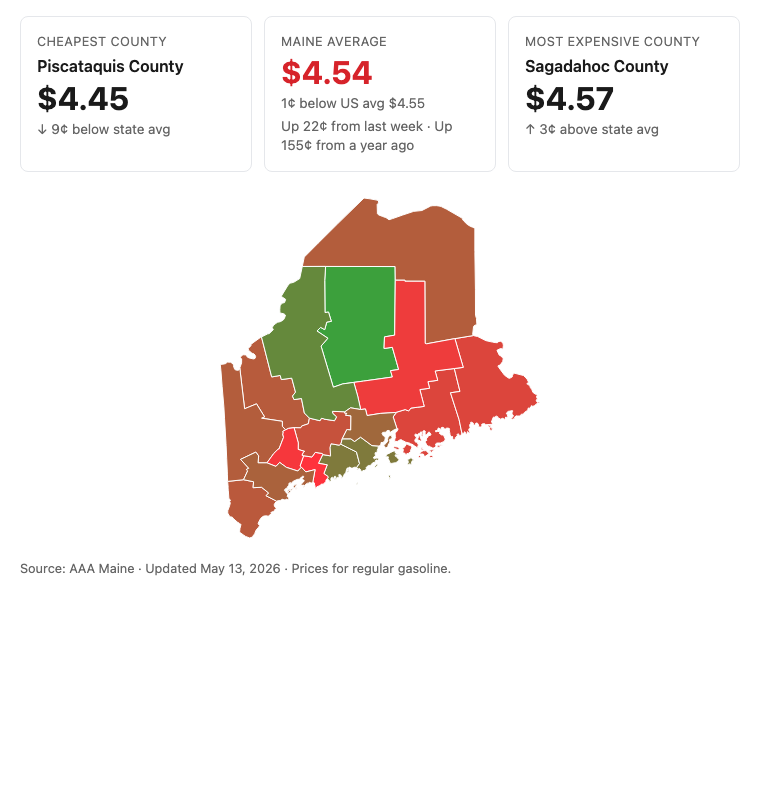
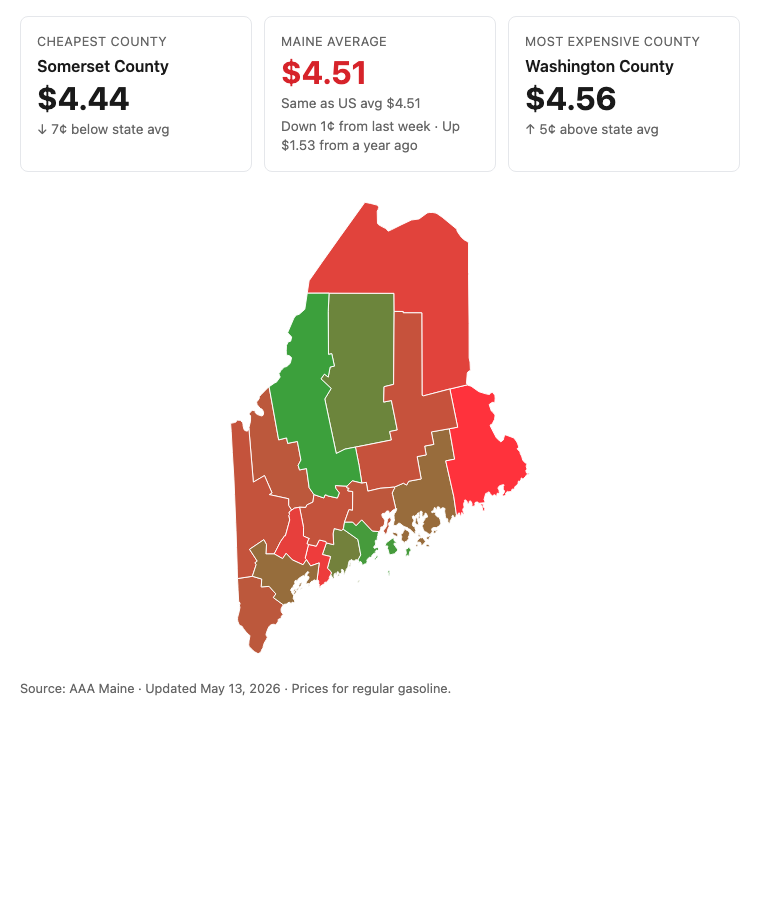
fix: correct map aspect ratio and dollar formatting in trend
- Add latitude correction to the projection (cos(midLat)) so Maine renders
  at its true ~0.65 aspect instead of being stretched horizontally. SVG
  viewBox now matches Maine's true aspect; map area bumped to 480px tall.
- Format trend/state-vs-us deltas as dollars ($1.53) when |cents| >= 100;
  otherwise keep cents (27c). Applied to delta(), trendLine(), and the
  state-vs-US line.

diff --git a/embed.html b/embed.html
@@ -22,8 +22,8 @@
   .card .delta { font-size: .85rem; color: var(--muted); }
   .card.center .price { color: var(--bdn-red); }
   .trend { font-size: .85rem; color: var(--muted); margin-top: .25rem; }
-  #map { width: 100%; height: 360px; }
-  #map svg { width: 100%; height: 100%; }
+  #map { width: 100%; height: 480px; }
+  #map svg { width: auto; height: 100%; max-width: 100%; display: block; margin: 0 auto; }
   .county { fill: #ddd; stroke: #fff; stroke-width: 1; cursor: pointer; }
   .county:hover { stroke: #000; stroke-width: 2; }
   .tooltip { position: absolute; background: #1a1a1a; color: #fff; padding: .35rem .55rem; border-radius: 4px; font-size: .85rem; pointer-events: none; opacity: 0; transition: opacity .1s; z-index: 10; }
@@ -71,12 +71,18 @@ async function load() {
 
 function fmt(p) { return "$" + p.toFixed(2); }
 
+// Format an absolute cent value as cents (e.g. "27¢") or dollars (e.g. "$1.53") when ≥ $1.
+function fmtChange(cents) {
+  const abs = Math.abs(cents);
+  return abs >= 100 ? `$${(abs / 100).toFixed(2)}` : `${abs}¢`;
+}
+
 function delta(a, b) {
   const c = Math.round((a - b) * 100);
   if (c === 0) return "Same as state avg";
   const arrow = c > 0 ? "↑" : "↓";
   const dir = c > 0 ? "above" : "below";
-  return `${arrow} ${Math.abs(c)}¢ ${dir} state avg`;
+  return `${arrow} ${fmtChange(c)} ${dir} state avg`;
 }
 
 function trendLine(state) {
@@ -85,7 +91,7 @@ function trendLine(state) {
   const fmtDir = (label, prev) => {
     const c = Math.round((base - prev) * 100);
     if (c === 0) return `Even with ${label}`;
-    return `${c > 0 ? "Up" : "Down"} ${Math.abs(c)}¢ from ${label}`;
+    return `${c > 0 ? "Up" : "Down"} ${fmtChange(c)} from ${label}`;
   };
   return [fmtDir("last week", t.week_ago), fmtDir("a year ago", t.year_ago)].join(" · ");
 }
@@ -107,7 +113,7 @@ function render(p, geo) {
   document.getElementById("state-vs-us").textContent =
     usDiff === 0
       ? `Same as US avg ${fmt(p.national.avg_regular)}`
-      : `${Math.abs(usDiff)}¢ ${usDiff > 0 ? "above" : "below"} US avg ${fmt(p.national.avg_regular)}`;
+      : `${fmtChange(usDiff)} ${usDiff > 0 ? "above" : "below"} US avg ${fmt(p.national.avg_regular)}`;
   document.getElementById("state-trend").textContent = trendLine(p.state);
 
   // Stale-data warning
@@ -151,14 +157,21 @@ function renderMap(p, geo) {
     if (x > maxX) maxX = x; if (y > maxY) maxY = y;
   }));
 
-  const W = 600, H = 360, pad = 10;
-  const sx = (W - 2 * pad) / (maxX - minX);
-  const sy = (H - 2 * pad) / (maxY - minY);
-  const s = Math.min(sx, sy);
-  // Center horizontally if aspect ratio leaves room
-  const offX = (W - (maxX - minX) * s) / 2;
-  const offY = (H - (maxY - minY) * s) / 2;
-  const project = ([x, y]) => [offX + (x - minX) * s, H - offY - (y - minY) * s];
+  // Equirectangular projection with latitude correction: at ~45°N, one degree of
+  // longitude is only ~cos(45°) ≈ 0.71 as wide as one degree of latitude. Without
+  // this, Maine renders too wide and looks squished.
+  const midLat = (minY + maxY) / 2;
+  const lonScale = Math.cos(midLat * Math.PI / 180);
+  const dx = (maxX - minX) * lonScale;
+  const dy = (maxY - minY);
+
+  // Size the SVG viewBox to Maine's true aspect so it fills the map area cleanly.
+  const VB_H = 500, pad = 10;
+  const VB_W = Math.round(VB_H * dx / dy);
+  const s = Math.min((VB_W - 2 * pad) / dx, (VB_H - 2 * pad) / dy);
+  const offX = (VB_W - dx * s) / 2;
+  const offY = (VB_H - dy * s) / 2;
+  const project = ([x, y]) => [offX + (x - minX) * lonScale * s, VB_H - offY - (y - minY) * s];
 
   const ringPath = ring => "M" + ring.map(project).map(pt => pt.join(",")).join("L") + "Z";
   const featurePath = f => {
@@ -168,7 +181,7 @@ function renderMap(p, geo) {
     return "";
   };
 
-  const svg = `<svg viewBox="0 0 ${W} ${H}" xmlns="http://www.w3.org/2000/svg" role="img" aria-label="Map of Maine showing average regular gas prices by county">
+  const svg = `<svg viewBox="0 0 ${VB_W} ${VB_H}" xmlns="http://www.w3.org/2000/svg" role="img" aria-label="Map of Maine showing average regular gas prices by county">
     ${geo.features.map(f => {
       const fips = f.properties.fips;
       const name = f.properties.name;
